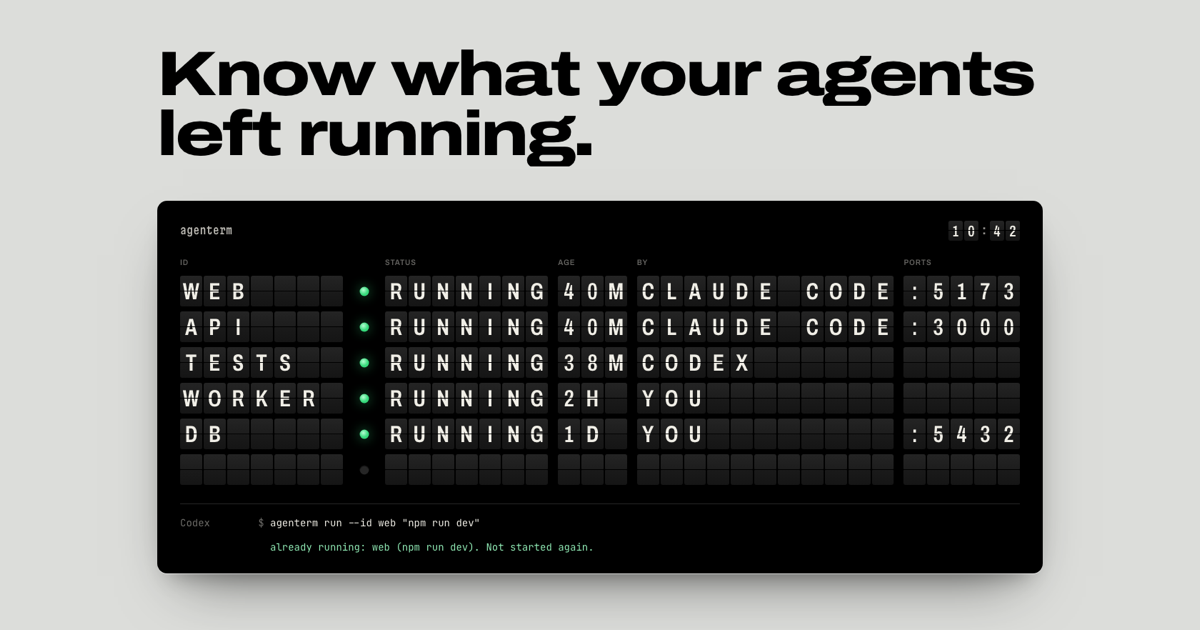
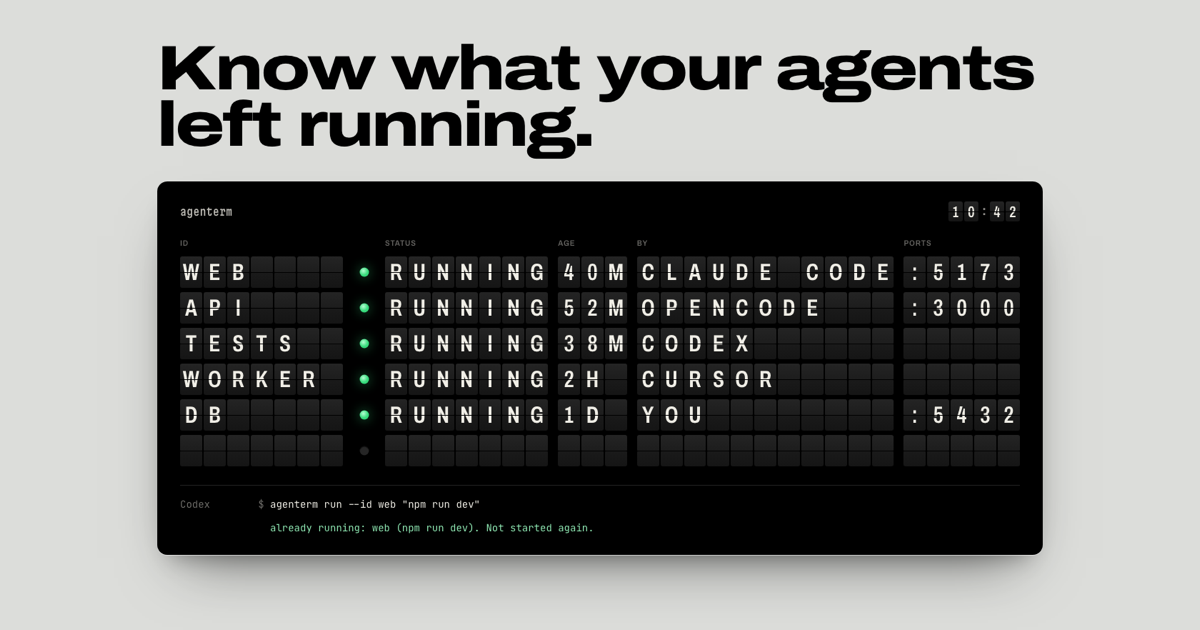
site: show more agents on the board and stop clipping the headline's g

Changed region(s): [[0.1233, 0.0603, 0.8942, 0.754], [0.1233, 0.7841, 0.8942, 0.9651], [0.1542, 0.7841, 0.185, 0.8444]]

diff --git a/apps/site/src/board.ts b/apps/site/src/board.ts
@@ -371,9 +371,9 @@ export function startBoard(options: BoardOptions): void {
   function opening(): (Task | null)[] {
     return [
       { id: 'web', status: 'running', by: 'claude code', ports: ':5173', startedAt: now - 40 * 60 },
-      { id: 'api', status: 'running', by: 'claude code', ports: ':3000', startedAt: now - 40 * 60 },
+      { id: 'api', status: 'running', by: 'opencode', ports: ':3000', startedAt: now - 52 * 60 },
       { id: 'tests', status: 'running', by: 'codex', ports: '', startedAt: now - 38 * 60 },
-      { id: 'worker', status: 'running', by: 'you', ports: '', startedAt: now - 2 * 3600 - 9 * 60 },
+      { id: 'worker', status: 'running', by: 'cursor', ports: '', startedAt: now - 2 * 3600 - 9 * 60 },
       { id: 'db', status: 'running', by: 'you', ports: ':5432', startedAt: now - 26 * 3600 },
       null
     ];
@@ -397,12 +397,12 @@ export function startBoard(options: BoardOptions): void {
     output('started tests: npx vitest', 'ok');
     await wait(2600);
 
-    await command('Codex', 'agenterm run --id docs "npm run docs"');
-    await set(5, { id: 'docs', status: 'running', by: 'codex', ports: ':4000', startedAt: now });
+    await command('Gemini CLI', 'agenterm run --id docs "npm run docs"');
+    await set(5, { id: 'docs', status: 'running', by: 'gemini cli', ports: ':4000', startedAt: now });
     output('started docs: npm run docs', 'ok');
     await wait(2600);
 
-    await command('Claude Code', 'agenterm stop worker');
+    await command('OpenCode', 'agenterm stop worker');
     const worker = find('worker');
     await set(worker, { ...tasks[worker]!, status: 'stopped' });
     output('worker: stopped');

diff --git a/apps/site/index.html b/apps/site/index.html
@@ -95,10 +95,10 @@
             <p class="ticker-output" data-ticker-output></p>
           </div>
           <figcaption class="sr-only">
-            Five tasks are running: web and api, started by Claude Code; tests, started by Codex; and a worker and a
-            database you started. Codex runs the web server again and agenterm returns the one already running instead
-            of starting a second copy. The tests fail, Claude Code reads their output and restarts them, Codex starts
-            the docs server, and Claude Code stops the worker.
+            Five tasks are running: web started by Claude Code, api by OpenCode, tests by Codex, a worker by Cursor, and
+            a database you started. Codex runs the web server again and agenterm returns the one already running instead
+            of starting a second copy. The tests fail, Claude Code reads their output and restarts them, Gemini CLI
+            starts the docs server, and OpenCode stops the worker.
           </figcaption>
         </figure>
       </section>

diff --git a/apps/site/src/style.css b/apps/site/src/style.css
@@ -192,7 +192,9 @@ h3 {
 .display .line {
   display: block;
   overflow: hidden;
-  padding-bottom: 0.06em;
+  /* Room for descenders (the g) inside the clip, without widening the leading. */
+  padding-bottom: 0.2em;
+  margin-bottom: -0.2em;
 }
 .display .line > span {
   display: inline-block;
@@ -217,7 +219,7 @@ h3 {
 
 @keyframes rise {
   from {
-    transform: translateY(105%);
+    transform: translateY(130%);
   }
 }
 
@@ -974,6 +976,9 @@ h3 {
   }
   .hero {
     padding-top: 12px;
+  }
+  .display {
+    line-height: 0.98;
   }
   .nav nav {
     gap: 18px;
